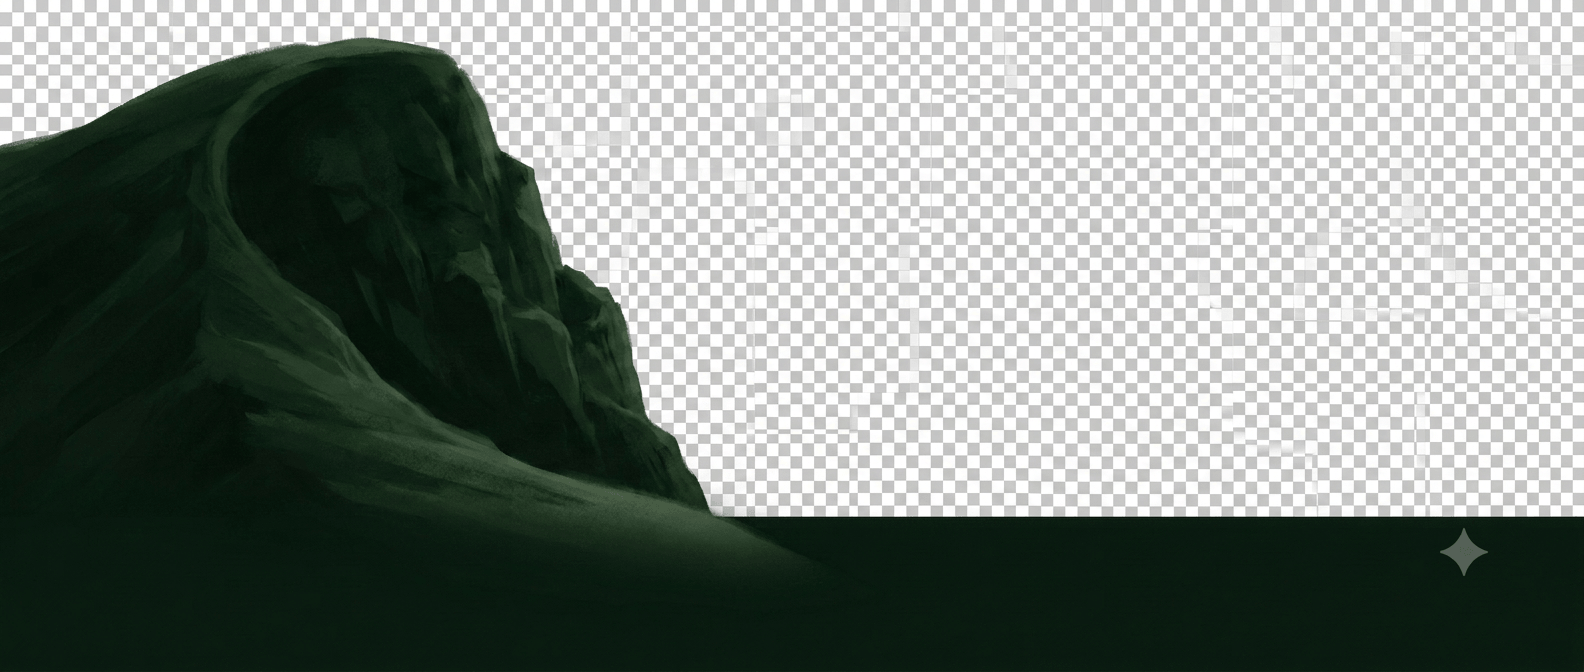
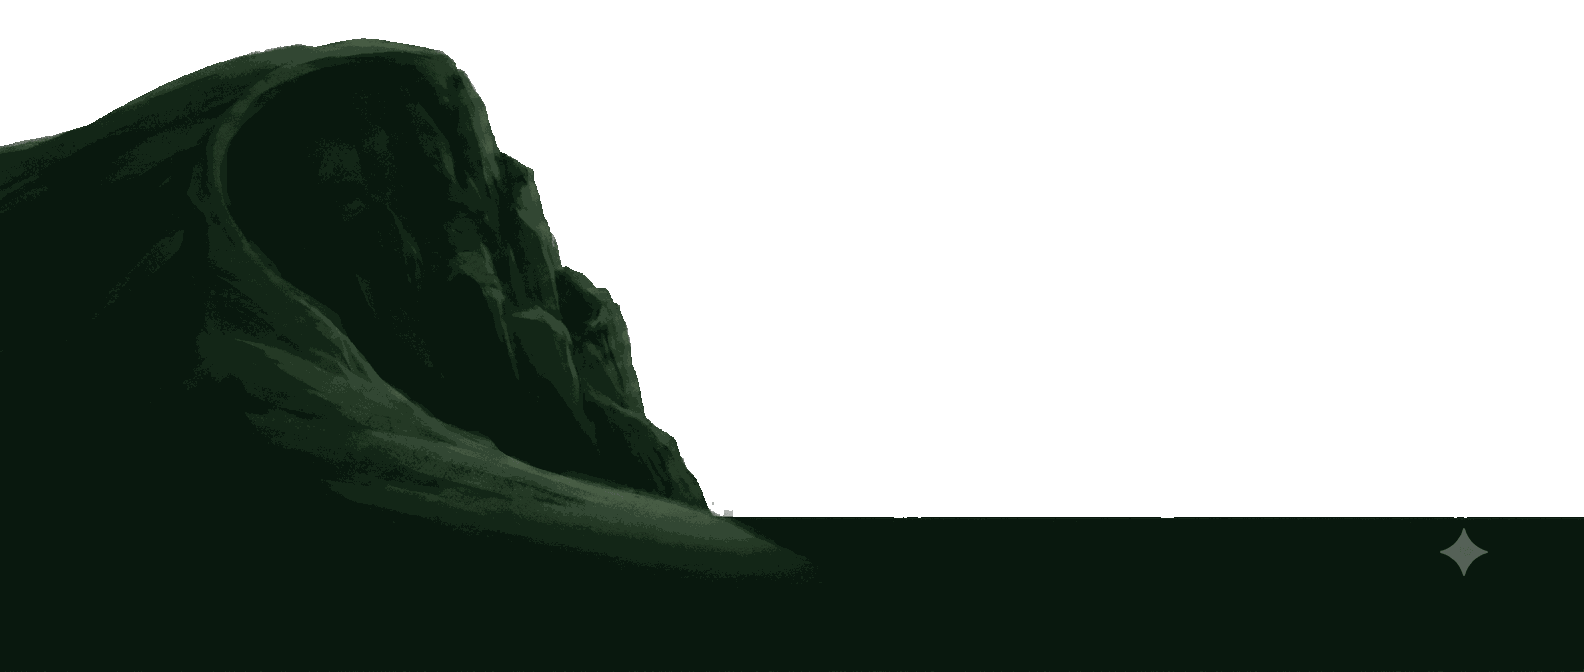
Fix hero parallax: restore layer transparency and scroll transforms
The midground/foreground hero PNGs had the editor's transparency-preview
checkerboard baked in as opaque pixels (mode P, zero alpha), so the browser
rendered a literal checkerboard on scroll. Key the checkerboard back to real
alpha — a per-column horizon silhouette (feathered) for image2, per-pixel for
image3 — and re-quantize to palette+alpha (996KB→94KB, 1069KB→31KB).

Also fix two parallax bugs:
- the scroll handler wrote `transform: translateY(...)`, clobbering each
  layer's CSS scale() so layers popped to 1.0 and exposed edges on scroll.
  JS now re-includes the overscan scale (LAYER_SCALE).
- the foreground used scale(0.67) (below viewport) and 0.3/0.6/0.9 multipliers
  translated layers hundreds of px, exposing edges. Offsets are now capped
  within the overscan budget and ordered for natural depth (foreground drifts
  fastest, sky lingers). Removed the unused perspective/preserve-3d machinery.

Changed region(s): [[0.0, 0.0, 1.0, 0.7812]]

diff --git a/src/styles/hero.css b/src/styles/hero.css
@@ -10,18 +10,14 @@
   scroll-behavior: smooth;
 }
 
-/* 3D Perspective Viewport */
+/* Parallax viewport */
 .hero-perspective {
-  perspective: 800px;
-  perspective-origin: center 0;
   height: 100vh;
   overflow: hidden;
   position: relative;
 }
 
-/* Stage: preserve-3d for layered transforms */
 .hero-stage {
-  transform-style: preserve-3d;
   position: relative;
   height: 100vh;
   width: 100%;
@@ -30,35 +26,25 @@
   justify-content: center;
 }
 
-/* Base layer styles */
+/* Base layer styles. The scale() gives each layer overscan so the scroll-driven
+   translateY (applied by JS, and capped below the overscan budget) never exposes an
+   edge. JS rewrites `transform` on scroll and must re-include this scale — see
+   HeroLanding.jsx (LAYER_SCALE). */
 .hero-layer {
   position: absolute;
   inset: 0;
   background-size: cover;
   background-position: center center;
   background-repeat: no-repeat;
-  image-rendering: auto;
+  transform: translate3d(0, 0, 0) scale(1.2);
   pointer-events: none;
   will-change: transform;
 }
 
-/* Layer 1: Sky (scrolls slowest — highest translateZ) */
-.hero-layer-1 {
-  transform: translateZ(0.6px) scale(1.4);
-  z-index: 1;
-}
-
-/* Layer 2: Midground Sea of Galilee (normal speed — z=0) */
-.hero-layer-2 {
-  transform: translateZ(0px);
-  z-index: 2;
-}
-
-/* Layer 3: Foreground Hill (scrolls fastest — negative translateZ) */
-.hero-layer-3 {
-  transform: translateZ(-0.6px) scale(0.67);
-  z-index: 3;
-}
+/* Depth order only — parallax speed is driven by JS, not CSS. */
+.hero-layer-1 { z-index: 1; } /* sky (furthest) */
+.hero-layer-2 { z-index: 2; } /* midground: Sea of Galilee */
+.hero-layer-3 { z-index: 3; } /* foreground hill (nearest) */
 
 /* ── Content Overlay — centered title area ── */
 .hero-content {

diff --git a/src/components/HeroLanding.jsx b/src/components/HeroLanding.jsx
@@ -3,6 +3,10 @@ import { useRef, useEffect } from 'react'
 const GREEK = 'Ἐν ἀρχῇ ἦν ὁ λόγος'
 const GREEK_TRANS = 'In the beginning was the Word · John 1:1'
 
+// Overscan applied to every hero layer. Must match `.hero-layer` scale() in hero.css:
+// its ~10% top margin (0.1 × 672px ≈ 67px) covers the capped downward parallax offsets.
+const LAYER_SCALE = 1.2
+
 export default function HeroLanding({ onEnter }) {
   const scrollRef = useRef(null)
   const enteredRef = useRef(false)
@@ -18,17 +22,17 @@ export default function HeroLanding({ onEnter }) {
       const max = scroller.scrollHeight - scroller.clientHeight
       const progress = max > 0 ? Math.min(1, scroller.scrollTop / max) : 0
 
-      // Parallax effect: each layer moves at a different rate based on scroll
-      // Layer 1 (sky, furthest): moves slowest
-      // Layer 2 (midground): moves at normal speed
-      // Layer 3 (foreground): moves fastest
-      const offset1 = scroller.scrollTop * 0.3
-      const offset2 = scroller.scrollTop * 0.6
-      const offset3 = scroller.scrollTop * 0.9
+      // Scroll-driven parallax. Each layer is nudged DOWN as you scroll; the nearest
+      // layer moves least, so relative to the scrolling container the foreground drifts
+      // upward fastest and the sky lingers — natural depth. Offsets are clamped to CAP
+      // (a fraction of LAYER_SCALE's overscan) so a translate never exposes a layer edge;
+      // past ~one viewport of scroll the drift is frozen while the scene scrolls away.
+      const s = Math.min(scroller.scrollTop, 700)
+      const tf = (o) => `translate3d(0, ${o}px, 0) scale(${LAYER_SCALE})`
 
-      if (layer1Ref.current) layer1Ref.current.style.transform = `translateY(${offset1}px)`
-      if (layer2Ref.current) layer2Ref.current.style.transform = `translateY(${offset2}px)`
-      if (layer3Ref.current) layer3Ref.current.style.transform = `translateY(${offset3}px)`
+      if (layer1Ref.current) layer1Ref.current.style.transform = tf(s * 0.086) // sky   → cap 60
+      if (layer2Ref.current) layer2Ref.current.style.transform = tf(s * 0.054) // mid   → cap 38
+      if (layer3Ref.current) layer3Ref.current.style.transform = tf(s * 0.023) // fore  → cap 16
 
       if (progress >= 0.985 && !enteredRef.current) {
         enteredRef.current = true